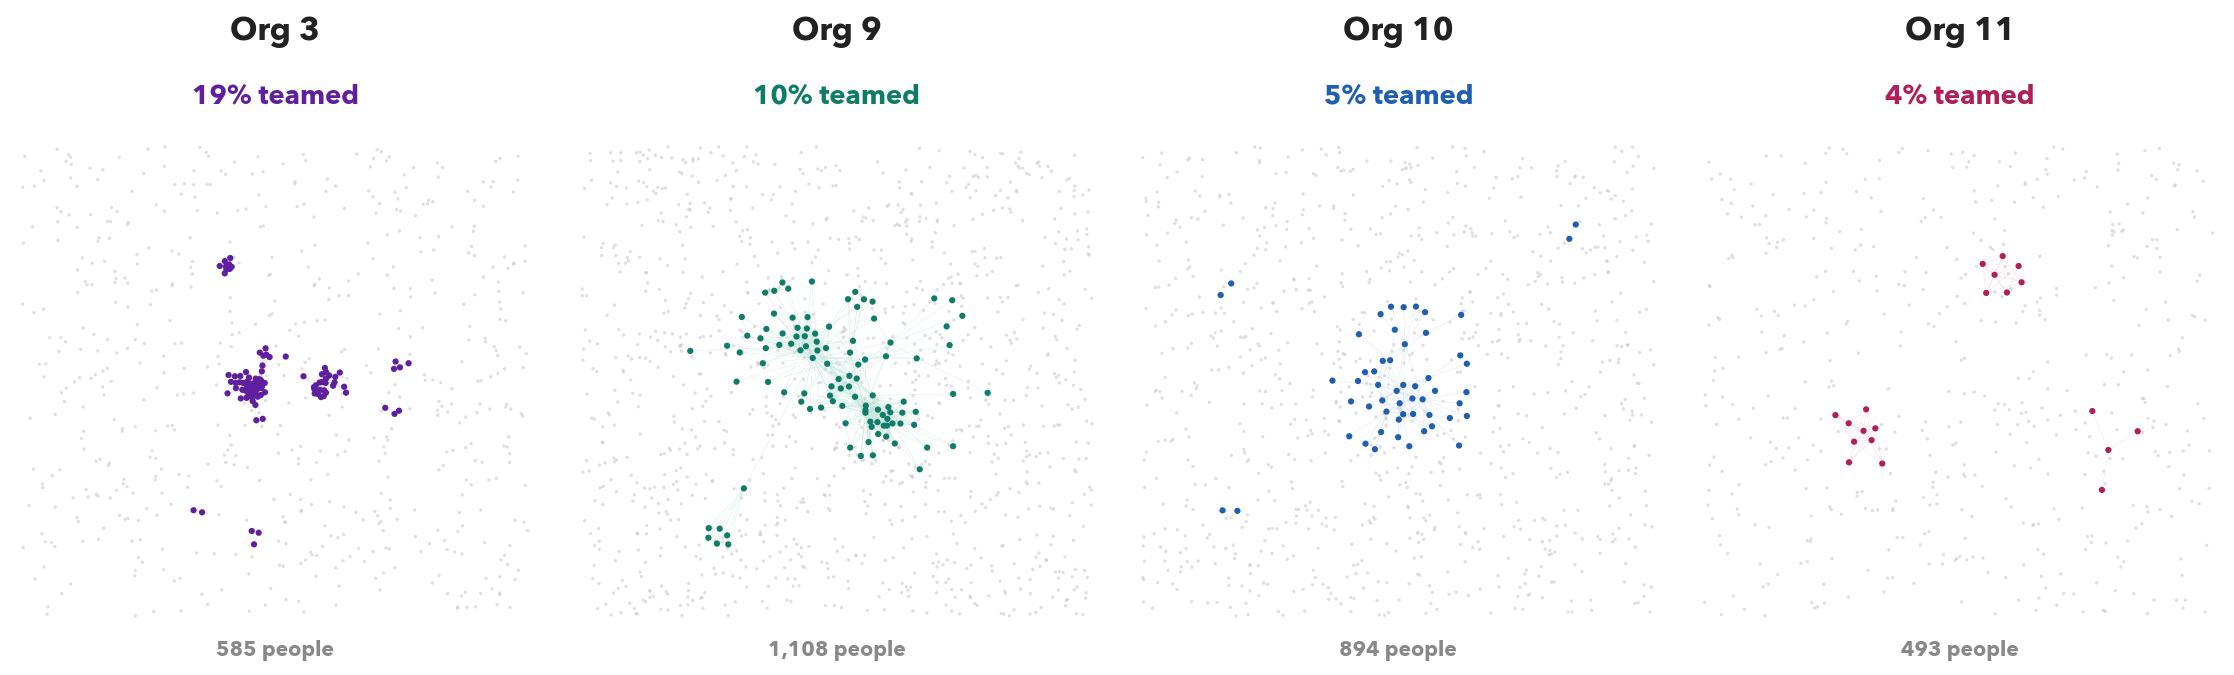
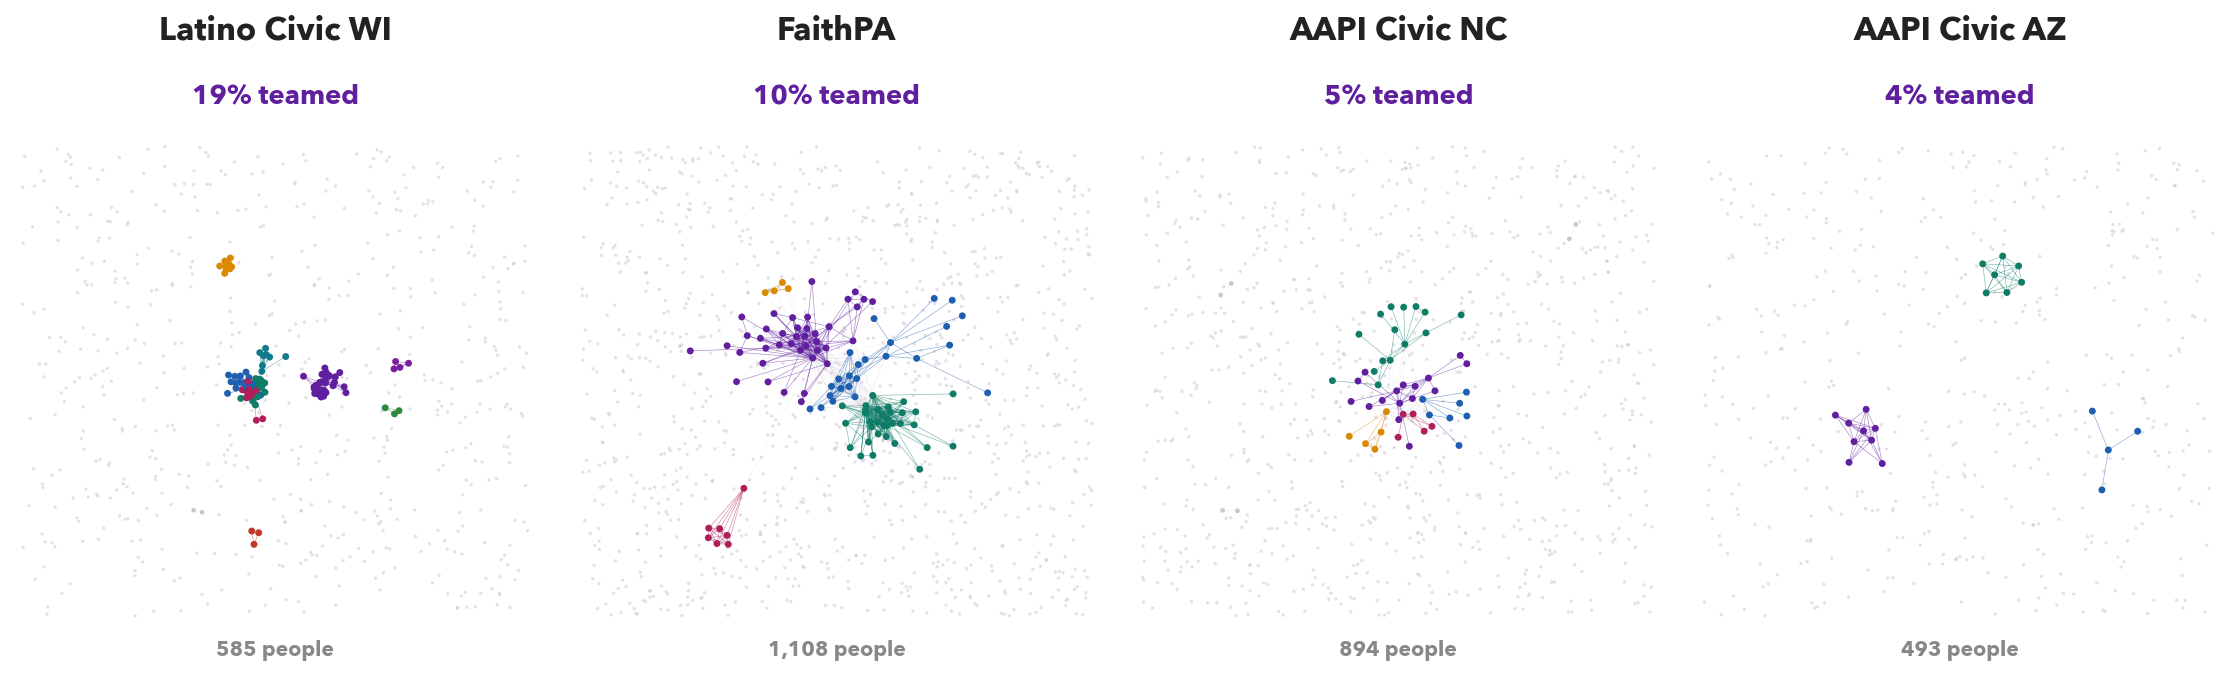
Color teamed panels by Louvain team (not org); pseudonymize all 8 orgs; drop "dust" wording

diff --git a/index.html b/index.html
@@ -1467,19 +1467,19 @@
 
         <div class="content wide" style="max-width: 1300px;">
             <div class="statement-box" style="margin-bottom: 0.75rem;">
-                <p>A <strong>team</strong> = people who keep showing up to the same events together. The four strongest orgs carry a dense web; their teamed core is a quarter of everyone who walked in.</p>
+                <p>A <strong>team</strong> = people who keep showing up to the same events together. <strong>Each color is a distinct team.</strong> The four strongest orgs carry many overlapping teams; their teamed core is a quarter of everyone who walked in.</p>
             </div>
 
             <div class="fragment" style="display: flex; justify-content: center; align-items: center;">
-                <img src="assets/teamed-strong4-talk.png" alt="Co-attendance networks for the four strongest orgs; teamed core in jewel tones, unconnected participants as grey dust; % teamed beneath each pseudonym" style="max-width: 100%; max-height: 34vh; border-radius: 8px; box-shadow: 0 4px 16px rgba(0,0,0,0.1);">
+                <img src="assets/teamed-strong4-talk.png" alt="Co-attendance networks for the four strongest orgs; each team a distinct color, unconnected participants in faint slate; % teamed beneath each pseudonym" style="max-width: 100%; max-height: 34vh; border-radius: 8px; box-shadow: 0 4px 16px rgba(0,0,0,0.1);">
             </div>
 
             <div class="fragment" style="display: flex; justify-content: center; align-items: center; margin-top: 0.5rem;">
-                <img src="assets/teamed-weak4-talk.png" alt="Co-attendance networks for four weaker orgs (Org 3, 9, 10, 11); the web thins and the panel turns mostly to grey dust as teamed share falls from 19% to 4%" style="max-width: 100%; max-height: 34vh; border-radius: 8px; box-shadow: 0 4px 16px rgba(0,0,0,0.1);">
+                <img src="assets/teamed-weak4-talk.png" alt="Co-attendance networks for four weaker orgs; the colored teams thin out and the panel turns mostly to faint slate as teamed share falls from 19% to 4%" style="max-width: 100%; max-height: 34vh; border-radius: 8px; box-shadow: 0 4px 16px rgba(0,0,0,0.1);">
             </div>
 
             <div class="fragment statement-box" style="margin-top: 0.75rem;">
-                <p>Slide down the gradient and the web thins to dust &mdash; from <strong style="color: var(--accent);">25%</strong> teamed to near zero. That share tracks which organizations turned 2024's mobilization into durable wins.</p>
+                <p>Slide down the gradient and the teams thin out &mdash; from <strong style="color: var(--accent);">25%</strong> teamed to near zero. That share tracks which organizations turned 2024's mobilization into durable wins.</p>
             </div>
         </div>
         <span class="slide-number">19c</span>
